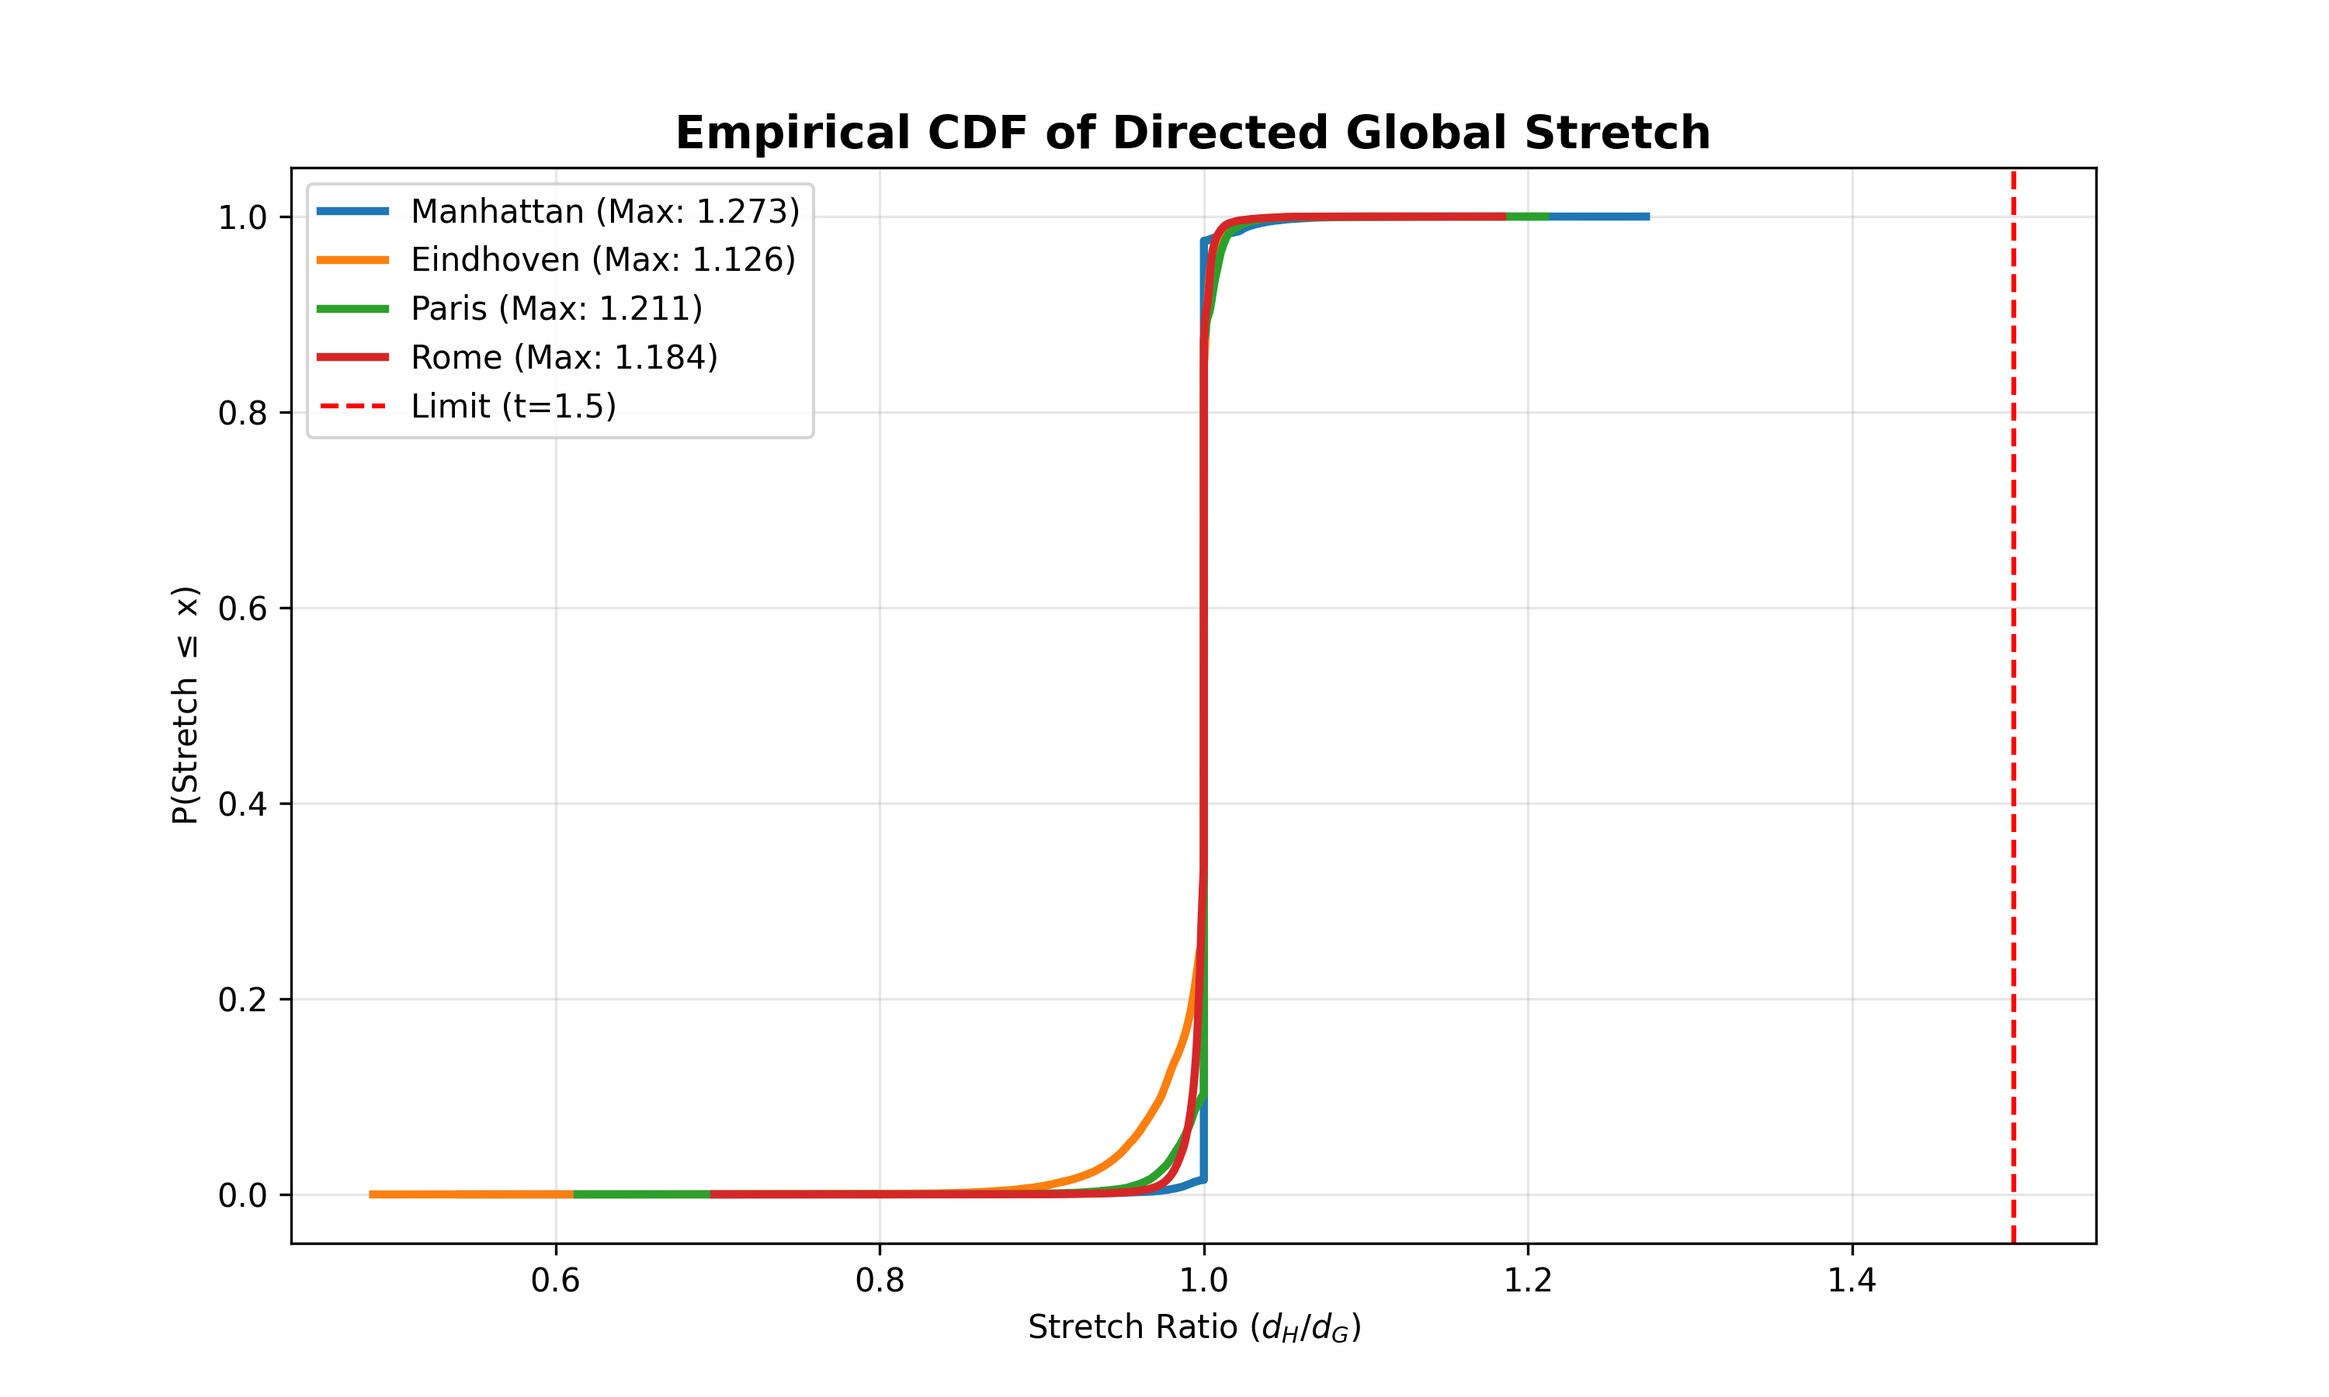
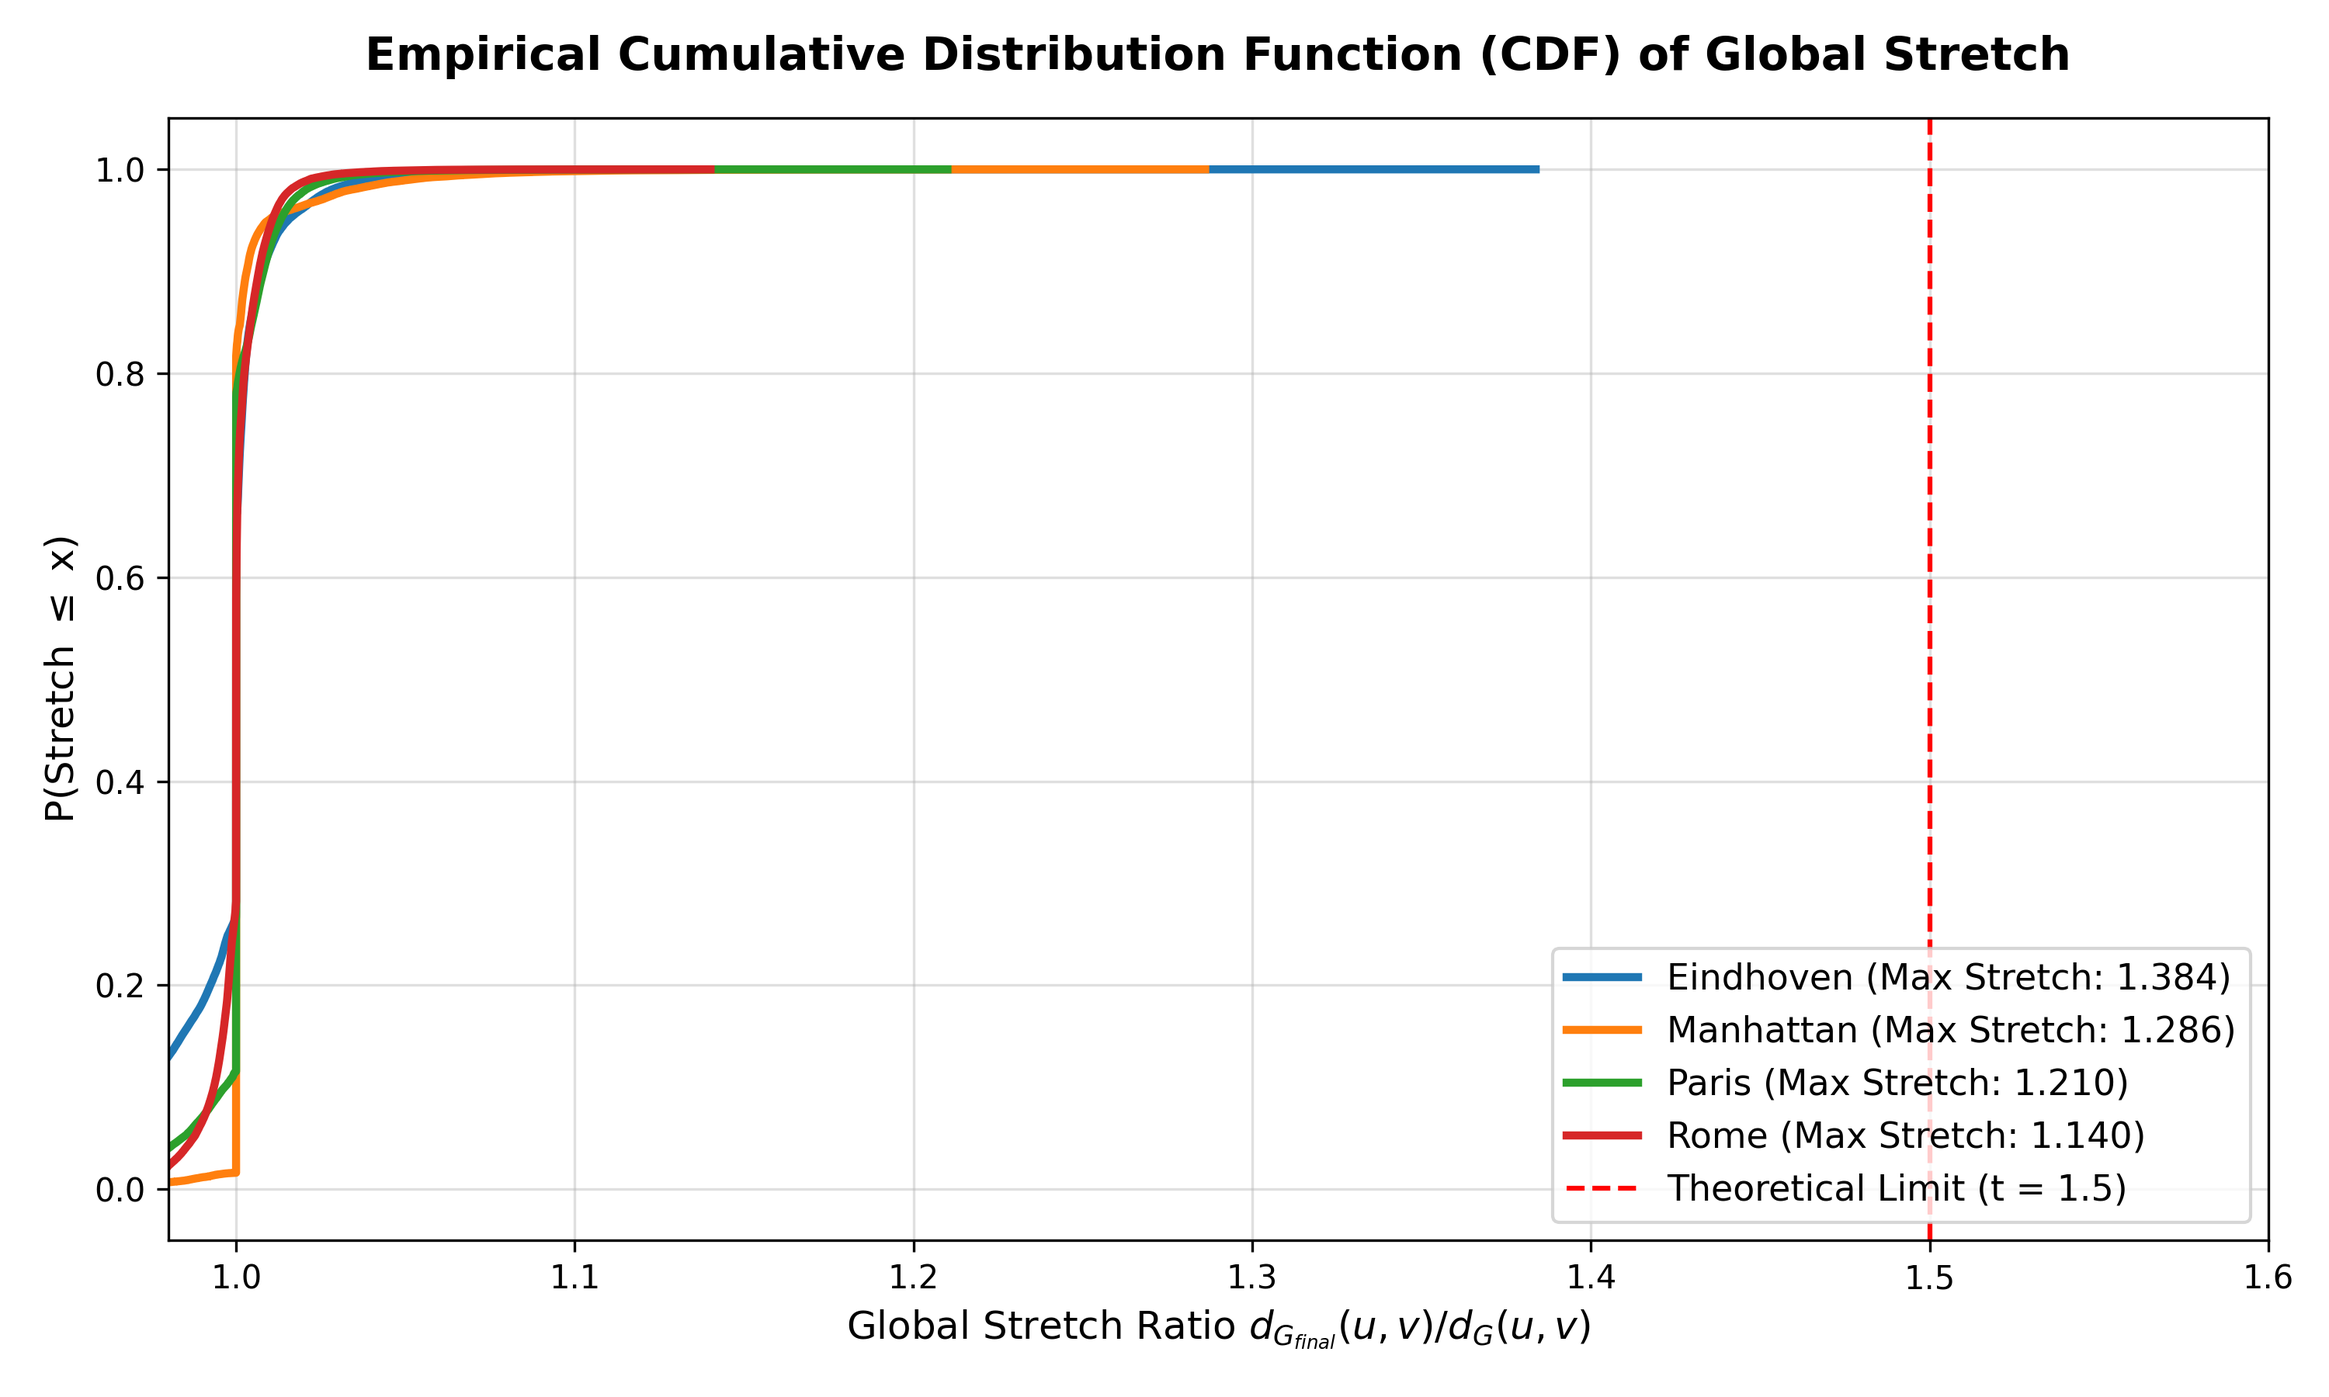
Fix directed-graph bug in monte_carlo_validator (undirected dijkstra + Graph vs DiGraph), extend independent verification to all 4 cities, add leave-one-city-out zero-shot generalization test

diff --git a/benchmarks/monte_carlo_validator.py b/benchmarks/monte_carlo_validator.py
@@ -12,6 +12,7 @@ from concurrent.futures import ProcessPoolExecutor, as_completed
 
 # وارد کردن توابع مورد نیاز از فایل اصلی پروژه
 from spanner_pipeline import (
+    DEFAULT_FIGURES_DIR,
     GeometricEdgeSAGE, train_base_model, city_worker,
     finetune_on_repairs_continual, glv_repair_directed, CITIES
 )
@@ -37,8 +38,8 @@ def run_monte_carlo_scipy(city_label, G_orig, G_final, num_samples=100000):
     
     # اجرای محاسبات دایجسترا با کدهای کامپایلشده C++ در SciPy
     print(f"[MC - {city_label}] Running SciPy parallelized Dijkstra for {num_sources} source nodes...")
-    dist_orig = dijkstra(matrix_orig, directed=False, indices=sources)
-    dist_span = dijkstra(matrix_final, directed=False, indices=sources)
+    dist_orig = dijkstra(matrix_orig, directed=True, indices=sources)
+    dist_span = dijkstra(matrix_final, directed=True, indices=sources)
     
     # استخراج زوج گرههای معتبر و محاسبه ضریب کشش
     stretches = []
@@ -64,71 +65,65 @@ def run_monte_carlo_scipy(city_label, G_orig, G_final, num_samples=100000):
 
 def main():
     WEIGHTS = 'best_base_model.pt'
-    
-    # ۱. اجرای پایپلاین مدل و دریافت نتایج اولیه
+
+    # 1. Run base pipeline and collect graph representations
     print("Step 1: Running base GNN model pipeline...")
     model = train_base_model(weights_path=WEIGHTS)
-    
+
     worker_args = [(lbl, qry, WEIGHTS) for lbl, qry in CITIES.items()]
     city_results = []
-    
+
     print("\nStep 2: Processing cities in parallel to collect graph representations...")
-    with ProcessPoolExecutor(max_workers=len(CITIES)) as pool:
-        futures = {pool.submit(city_worker, arg): arg[0] for arg in worker_args}
-        for future in as_completed(futures):
-            lbl = futures[future]
-            try:
-                city_results.append(future.result())
-                print(f"[Main Pipeline] ✓ {lbl} loading completed.")
-            except Exception as exc:
-                print(f"[Main Pipeline] ✗ {lbl} failed: {exc}")
-
-    # ۲. اعمال بهینهسازی و فاینتیون نهایی مدل بر روی لبههای ترمیم شده
+    for arg in worker_args:
+        lbl = arg[0]
+        try:
+            city_results.append(city_worker(arg))
+            print(f"[Main Pipeline] processing {lbl} completed.")
+        except Exception as exc:
+            print(f"[Main Pipeline] {lbl} failed: {exc}")
+    # 2. Fine-tune on repaired edges
     print("\nStep 3: Fine-tuning GNN on repaired edges (Phase 2)...")
-    model = finetune_on_repairs_continual(model, city_results)
+    model, _ = finetune_on_repairs_continual(model, city_results)
 
-    # ۳. شروع آزمون علمی مونتکارلو برای شهرهای پاریس و رم
-    print("\nStep 4: Running Monte Carlo Verification...")
-    plt.figure(figsize=(10, 6))
-    
+    # 3. Independent Monte Carlo verification for ALL cities (no city restriction)
+    print("\nStep 4: Running Monte Carlo Verification (all cities)...")
+
     stats_summary = []
-    
+    per_city_stretches = {}
+
     for res in city_results:
         city_label = res['city_label']
-        if city_label not in ['Paris', 'Rome']:
-            continue
-            
+
         G = res['_G']
         edge_list = res['_edge_list']
         x_local = res['_x_local']
         edge_idx = res['_edge_idx']
         edge_attr = res['_edge_attr_loc']
-        
+
         model.eval()
         with torch.no_grad():
             final_probs = torch.sigmoid(model(x_local, edge_idx, edge_attr)).numpy().flatten()
-            
-        G_opt = nx.Graph()
+
+        G_opt = nx.DiGraph()
         G_opt.add_nodes_from(G.nodes())
         removed = []
-        for i, (u, v, k, d) in enumerate(edge_list):
+        for i, (u, v, d) in enumerate(edge_list):
             if final_probs[i] > 0.55:
                 G_opt.add_edge(u, v, length=d['length'])
             else:
                 removed.append({'u': u, 'v': v, 'length': d['length'], 'prob': final_probs[i], 'idx': i})
-                
+
         G_final, _ = glv_repair_directed(G_opt, removed)
-        
-        # اجرای شبیهسازی سریع مونتکارلو
+
         stretches = run_monte_carlo_scipy(city_label, G, G_final, num_samples=100000)
-        
-        # محاسبه شاخصهای آماری
+        per_city_stretches[city_label] = stretches
+
         mean_s = np.mean(stretches)
         median_s = np.median(stretches)
         p99_s = np.percentile(stretches, 99)
         max_s = np.max(stretches)
         violation_rate = np.mean(stretches > 1.5) * 100
-        
+
         stats_summary.append({
             'City': city_label,
             'Mean Stretch': f"{mean_s:.4f}",
@@ -137,13 +132,14 @@ def main():
             'Max Stretch': f"{max_s:.4f}",
             'Violation Rate (>1.5)': f"{violation_rate:.4f}%"
         })
-        
-        # رسم نمودار تابع توزیع انباشته (CDF) با رفع خطاهای کاراکتر LaTeX
+
+    # ── Plot 1: original combined overlay (kept, path fixed to results/figures/) ──
+    plt.figure(figsize=(10, 6))
+    for city_label, stretches in per_city_stretches.items():
         sorted_data = np.sort(stretches)
         yvals = np.arange(len(sorted_data)) / float(len(sorted_data) - 1)
+        max_s = np.max(stretches)
         plt.plot(sorted_data, yvals, label=f'{city_label} (Max Stretch: {max_s:.3f})', linewidth=2.5)
-
-    # زیباسازی و استایلدهی علمی به نمودار خروجی با فرمت Raw String برای رفع اخطارهای ترمینال
     plt.axvline(x=1.5, color='red', linestyle='--', label=r'Theoretical Limit (t = 1.5)', linewidth=1.5)
     plt.title(r'Empirical Cumulative Distribution Function (CDF) of Global Stretch', fontsize=14, fontweight='bold', pad=15)
     plt.xlabel(r'Global Stretch Ratio $d_{G_{final}}(u,v) / d_G(u,v)$', fontsize=12)
@@ -152,17 +148,54 @@ def main():
     plt.grid(True, which="both", ls="-", alpha=0.4)
     plt.legend(loc='lower right', fontsize=11)
     plt.tight_layout()
-    
-    # ذخیره نمودار
-    plt.savefig('global_stretch_cdf.png', dpi=300)
-    print("\n[Main] ✓ Plot saved successfully as 'global_stretch_cdf.png'")
-    
-    # چاپ جدول نتایج آماری برای پاسخ به کامنت داور
+    plt.savefig(DEFAULT_FIGURES_DIR / 'global_stretch_cdf.png', dpi=300)
+    print("\n[Main] \u2713 Combined overlay plot saved to results/figures/global_stretch_cdf.png")
+    plt.close()
+
+    # ── Plot 2: NEW 2x2 subplot grid, one axis per city, self-contained annotations ──
+    fig, axes = plt.subplots(2, 2, figsize=(14, 10))
+    axes_flat = axes.flatten()
+
+    for ax, (city_label, stretches) in zip(axes_flat, per_city_stretches.items()):
+        sorted_data = np.sort(stretches)
+        yvals = np.arange(len(sorted_data)) / float(len(sorted_data) - 1)
+        mean_s = np.mean(stretches)
+        median_s = np.median(stretches)
+        max_s = np.max(stretches)
+
+        ax.plot(sorted_data, yvals, linewidth=2.5, color='#1f77b4')
+        ax.axvline(x=1.5, color='red', linestyle='--', linewidth=1.5, label='Limit (t=1.5)')
+        ax.set_title(city_label, fontsize=13, fontweight='bold')
+        ax.set_xlabel(r'Stretch Ratio $d_{H}/d_{G}$', fontsize=10)
+        ax.set_ylabel(r'P(Stretch $\leq$ x)', fontsize=10)
+        ax.grid(True, alpha=0.4)
+        ax.legend(loc='lower right', fontsize=9)
+
+        # Scale x-axis to this city's own data range (with margin), not a fixed shared range
+        data_max = sorted_data.max()
+        ax.set_xlim(sorted_data.min() * 0.995, max(data_max * 1.02, 1.52))
+
+        annotation = f"Mean: {mean_s:.3f}\nMedian: {median_s:.3f}\nMax: {max_s:.3f}"
+        ax.text(0.03, 0.7, annotation, transform=ax.transAxes, fontsize=9,
+                verticalalignment='top', bbox=dict(boxstyle='round', facecolor='white', alpha=0.8))
+
+    # Hide any unused subplot axes if fewer than 4 cities were processed
+    for ax in axes_flat[len(per_city_stretches):]:
+        ax.set_visible(False)
+
+    fig.suptitle('Empirical CDF of Directed Global Stretch, by City', fontsize=15, fontweight='bold')
+    fig.tight_layout(rect=[0, 0, 1, 0.96])
+    fig.savefig(DEFAULT_FIGURES_DIR / 'stretch_cdf_by_city.png', dpi=300)
+    print("[Main] \u2713 Per-city subplot grid saved to results/figures/stretch_cdf_by_city.png")
+    plt.close()
+
+    # Print statistics table
     print("\n" + "="*85)
-    print("     MONTE CARLO STRETCH VALIDATION METRICS (10^5 RANDOM ROUTE PAIRS)")
+    print("     MONTE CARLO STRETCH VALIDATION METRICS (10^5 RANDOM ROUTE PAIRS, ALL CITIES)")
     print("="*85)
     print(pd.DataFrame(stats_summary).to_string(index=False))
     print("="*85)
+
 
 if __name__ == '__main__':
     main()

diff --git a/benchmarks/leave_one_city_out.py b/benchmarks/leave_one_city_out.py
@@ -1,0 +1,129 @@
+import sys
+import os
+sys.path.insert(0, os.path.dirname(__file__))
+
+import torch
+import networkx as nx
+import numpy as np
+import pandas as pd
+import matplotlib.pyplot as plt
+
+from spanner_pipeline import (
+    GeometricEdgeSAGE, train_base_model, city_worker,
+    finetune_on_repairs_continual, glv_repair_directed, CITIES,
+    DEFAULT_MODEL_PT, DEFAULT_FIGURES_DIR
+)
+from monte_carlo_validator import run_monte_carlo_scipy
+
+
+def evaluate_city_with_model(model, res):
+    model.eval()
+    with torch.no_grad():
+        probs = torch.sigmoid(
+            model(res["_x_local"], res["_edge_idx"], res["_edge_attr_loc"])
+        ).numpy().flatten()
+
+    G = res["_G"]
+    edge_list = res["_edge_list"]
+    G_opt = nx.DiGraph()
+    G_opt.add_nodes_from(G.nodes())
+    removed = []
+    for i, (u, v, d) in enumerate(edge_list):
+        if probs[i] > 0.55:
+            G_opt.add_edge(u, v, length=d["length"])
+        else:
+            removed.append({'u': u, 'v': v, 'length': d['length'], 'prob': probs[i], 'idx': i})
+
+    G_final, _ = glv_repair_directed(G_opt, removed)
+    stretches = run_monte_carlo_scipy(res["city_label"], G, G_final, num_samples=100000)
+    return stretches
+
+
+def main():
+    WEIGHTS = DEFAULT_MODEL_PT
+
+    print("\n[LOCO] Training base model (shared starting point for all folds)...")
+    train_base_model(weights_path=WEIGHTS)
+
+    print("\n[LOCO] Collecting graph representations for all cities...")
+    city_results = []
+    for lbl, qry in CITIES.items():
+        city_results.append(city_worker((lbl, qry, WEIGHTS)))
+        print(f"[LOCO] \u2713 {lbl} loaded.")
+
+    results_by_city = {r["city_label"]: r for r in city_results}
+
+    fold_stats = []
+    per_city_stretches = {}
+
+    for held_out_label in CITIES.keys():
+        print(f"\n{'='*70}")
+        print(f"[LOCO] FOLD: held-out city = {held_out_label}")
+        print(f"{'='*70}")
+
+        train_results = [r for r in city_results if r["city_label"] != held_out_label]
+        held_out_res = results_by_city[held_out_label]
+
+        model = GeometricEdgeSAGE()
+        model.load_state_dict(torch.load(WEIGHTS, weights_only=True, map_location="cpu"))
+
+        model, _ = finetune_on_repairs_continual(model, train_results)
+
+        print(f"[LOCO] Evaluating zero-shot on held-out city: {held_out_label}...")
+        stretches = evaluate_city_with_model(model, held_out_res)
+        per_city_stretches[held_out_label] = stretches
+
+        mean_s = np.mean(stretches)
+        median_s = np.median(stretches)
+        p99_s = np.percentile(stretches, 99)
+        max_s = np.max(stretches)
+        violation_rate = np.mean(stretches > 1.5) * 100
+
+        fold_stats.append({
+            'Held-out City': held_out_label,
+            'Trained on': ", ".join(r["city_label"] for r in train_results),
+            'Mean Stretch': f"{mean_s:.4f}",
+            'Median Stretch': f"{median_s:.4f}",
+            '99th Percentile': f"{p99_s:.4f}",
+            'Max Stretch': f"{max_s:.4f}",
+            'Violation Rate (>1.5)': f"{violation_rate:.4f}%"
+        })
+
+    print("\n" + "="*90)
+    print("     LEAVE-ONE-CITY-OUT CROSS-VALIDATION RESULTS (ZERO-SHOT GENERALIZATION)")
+    print("="*90)
+    df = pd.DataFrame(fold_stats)
+    print(df.to_string(index=False))
+    print("="*90)
+
+    df.to_csv(DEFAULT_FIGURES_DIR.parent / "raw_runs" / "leave_one_city_out_results.csv", index=False)
+    print(f"\n[LOCO] \u2713 Results saved to results/raw_runs/leave_one_city_out_results.csv")
+
+    fig, axes = plt.subplots(2, 2, figsize=(14, 10))
+    axes_flat = axes.flatten()
+    for ax, (city_label, stretches) in zip(axes_flat, per_city_stretches.items()):
+        sorted_data = np.sort(stretches)
+        yvals = np.arange(len(sorted_data)) / float(len(sorted_data) - 1)
+        mean_s = np.mean(stretches)
+        max_s = np.max(stretches)
+        ax.plot(sorted_data, yvals, linewidth=2.5, color='#d62728')
+        ax.axvline(x=1.5, color='red', linestyle='--', linewidth=1.5, label='Limit (t=1.5)')
+        ax.set_title(f"{city_label} (held out, zero-shot)", fontsize=12, fontweight='bold')
+        ax.set_xlabel(r'Stretch Ratio $d_{H}/d_{G}$', fontsize=10)
+        ax.set_ylabel(r'P(Stretch $\leq$ x)', fontsize=10)
+        ax.grid(True, alpha=0.4)
+        ax.legend(loc='lower right', fontsize=9)
+        data_max = sorted_data.max()
+        ax.set_xlim(sorted_data.min() * 0.995, max(data_max * 1.02, 1.52))
+        ax.text(0.03, 0.7, f"Mean: {mean_s:.3f}\nMax: {max_s:.3f}", transform=ax.transAxes,
+                fontsize=9, verticalalignment='top',
+                bbox=dict(boxstyle='round', facecolor='white', alpha=0.8))
+
+    fig.suptitle('Leave-One-City-Out: Zero-Shot Generalization to Unseen Topology', fontsize=14, fontweight='bold')
+    fig.tight_layout(rect=[0, 0, 1, 0.96])
+    fig.savefig(DEFAULT_FIGURES_DIR / 'leave_one_city_out_cdf.png', dpi=300)
+    print("[LOCO] \u2713 Plot saved to results/figures/leave_one_city_out_cdf.png")
+
+
+if __name__ == '__main__':
+    main()
